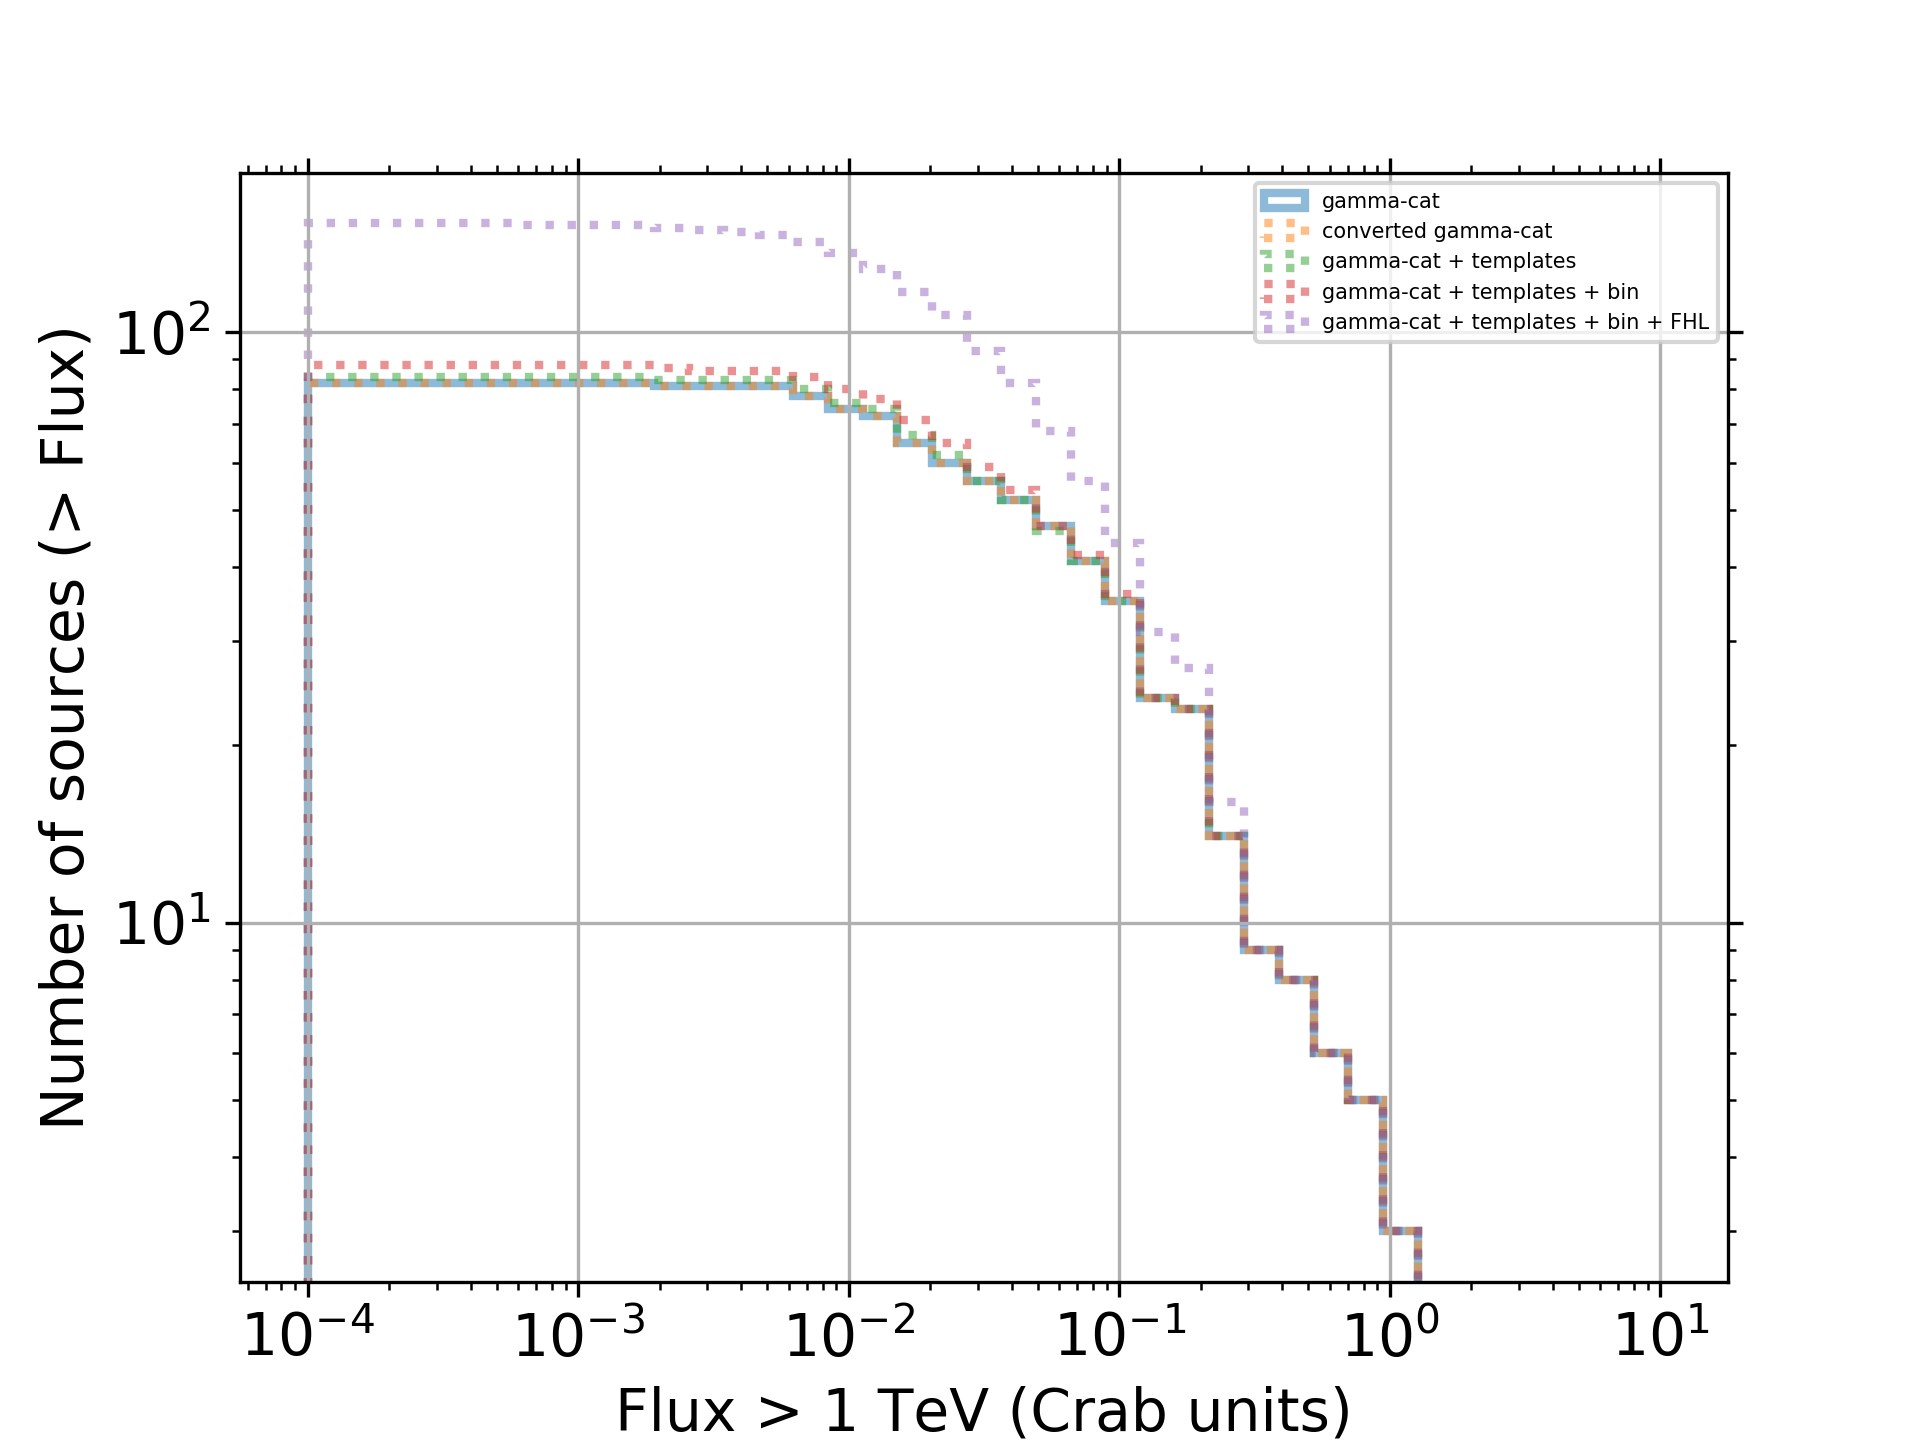
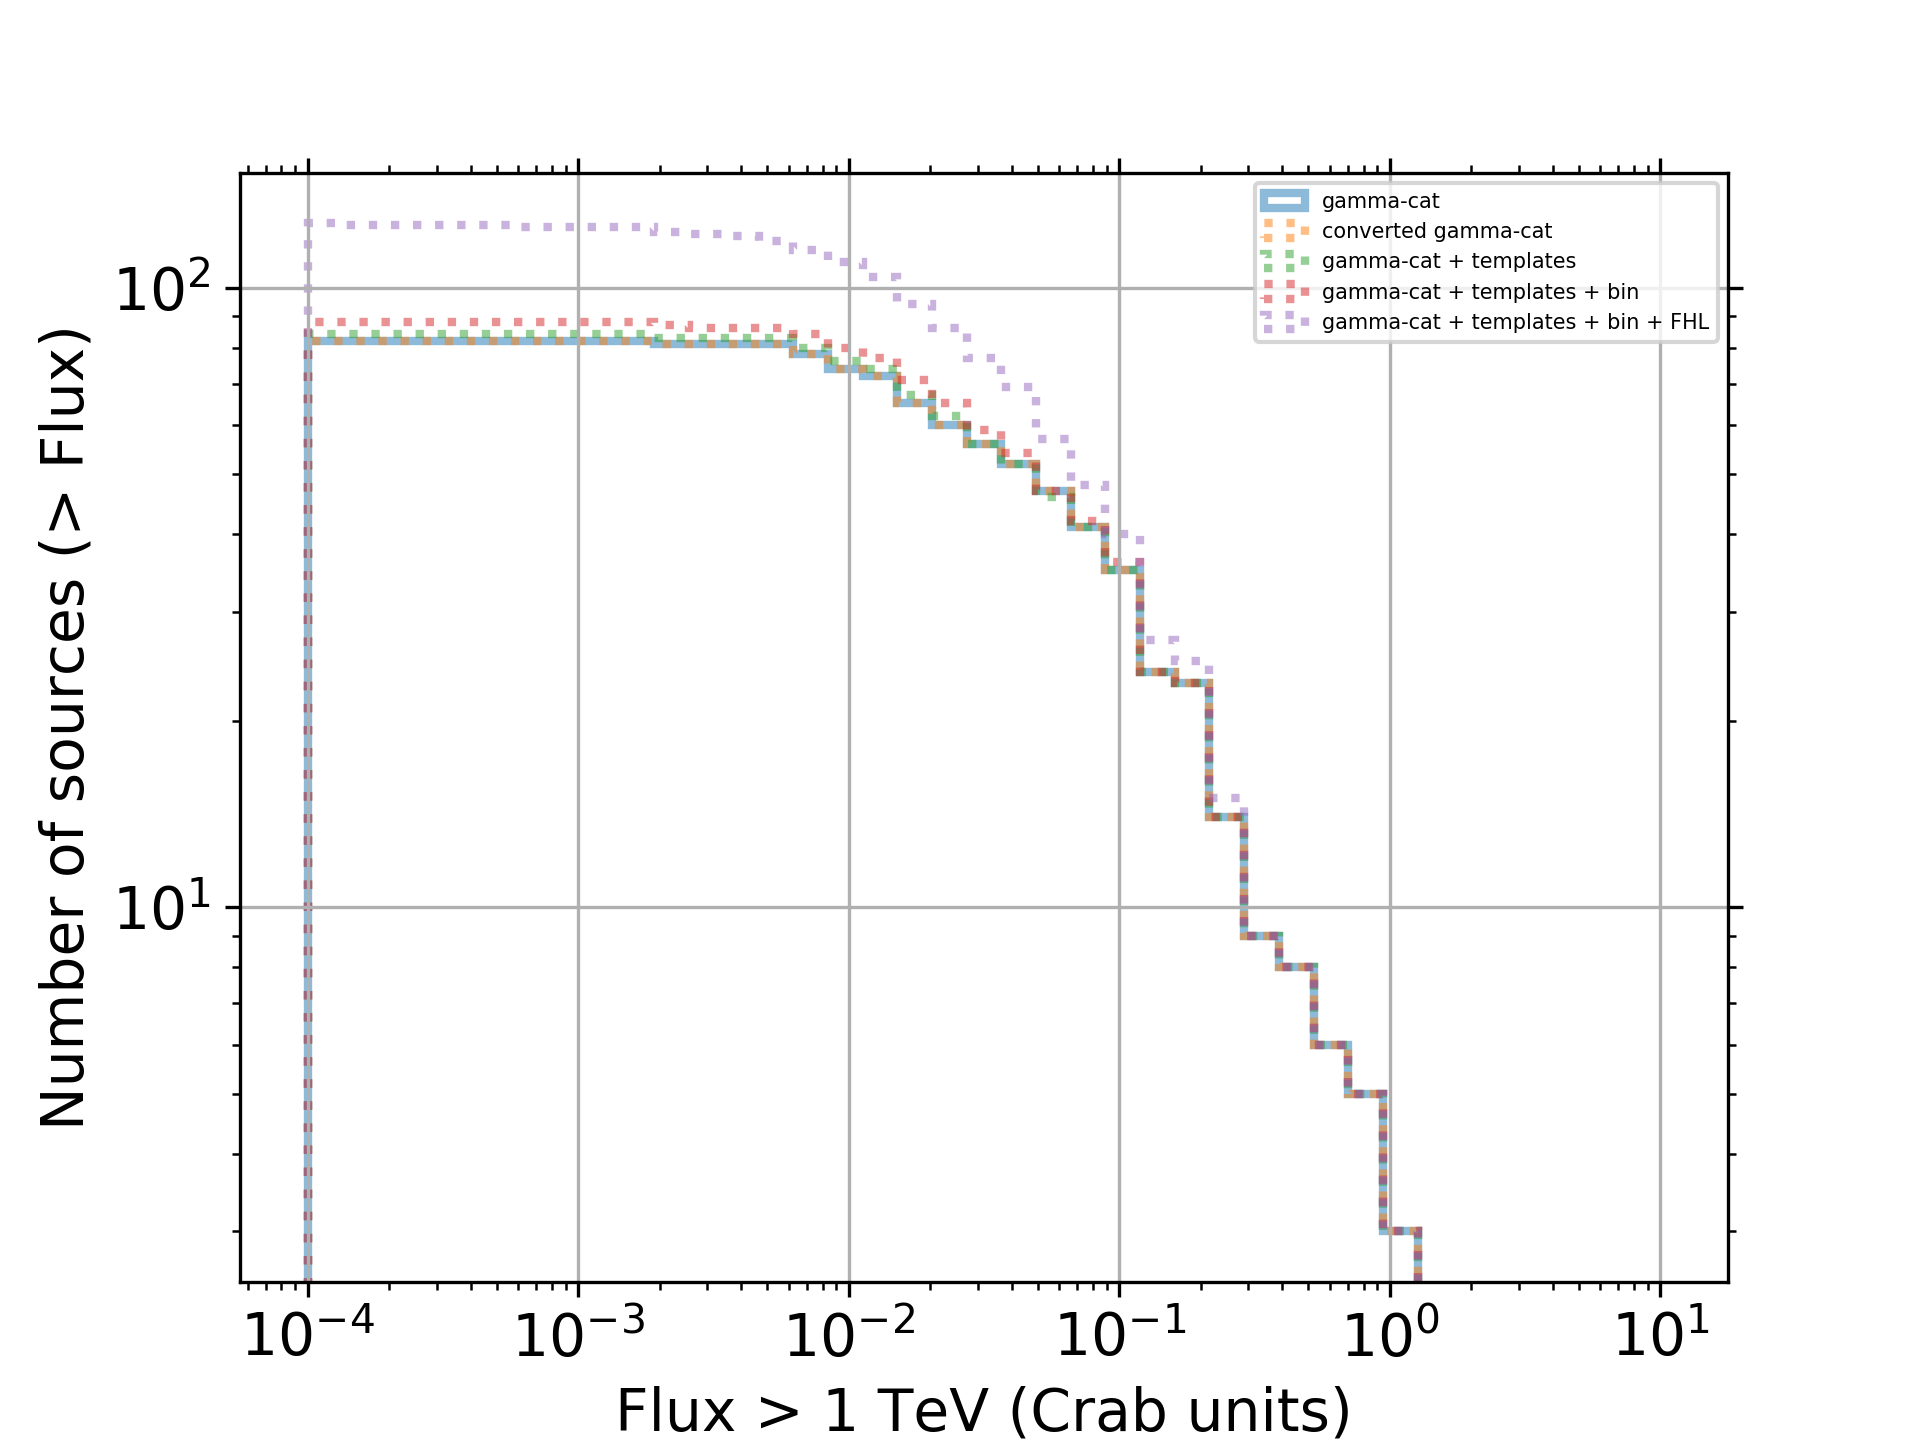
log-parabola spectrum for signif_curv > 1

diff --git a/skymodel/scripts/add_fhl.py b/skymodel/scripts/add_fhl.py
@@ -71,17 +71,15 @@ def append_fhl(models, bmax, dist_sigma=3., sig50_thresh=3., eph_thresh=100.):
             eref = gammalib.GEnergy(np.double(fsource['Pivot_Energy']), 'GeV')
             norm = np.double(fsource['Flux_Density'])
             norm *= 1.e-3  # ph GeV-1 -> ph MeV-1
-            if fsource['SpectrumType'] == 'PowerLaw':
+            # use power law model only if signifcance of curvature < 1
+            # this avoids extrapolating hard power laws not justified by the data
+            if fsource['Signif_Curve'] < 1:
                 index = np.double(fsource['PowerLaw_Index'])
                 spectral = gammalib.GModelSpectralPlaw(norm, -index, eref)
-            elif fsource['SpectrumType'] == 'LogParabola':
+            else:
                 index = np.double(fsource['Spectral_Index'])
                 curvature = np.double(fsource['beta'])
                 spectral = gammalib.GModelSpectralLogParabola(norm, -index, eref, curvature)
-            else:
-                print(
-                    'WARNING: source {} has spectral model of type {} which is not implemented'.format(
-                        fsource['Source_Name'], fsource['SpectrumType']))
             # assemble model and append to container
             model = gammalib.GModelSky(spatial, spectral)
             model.name(fsource['Source_Name'])
